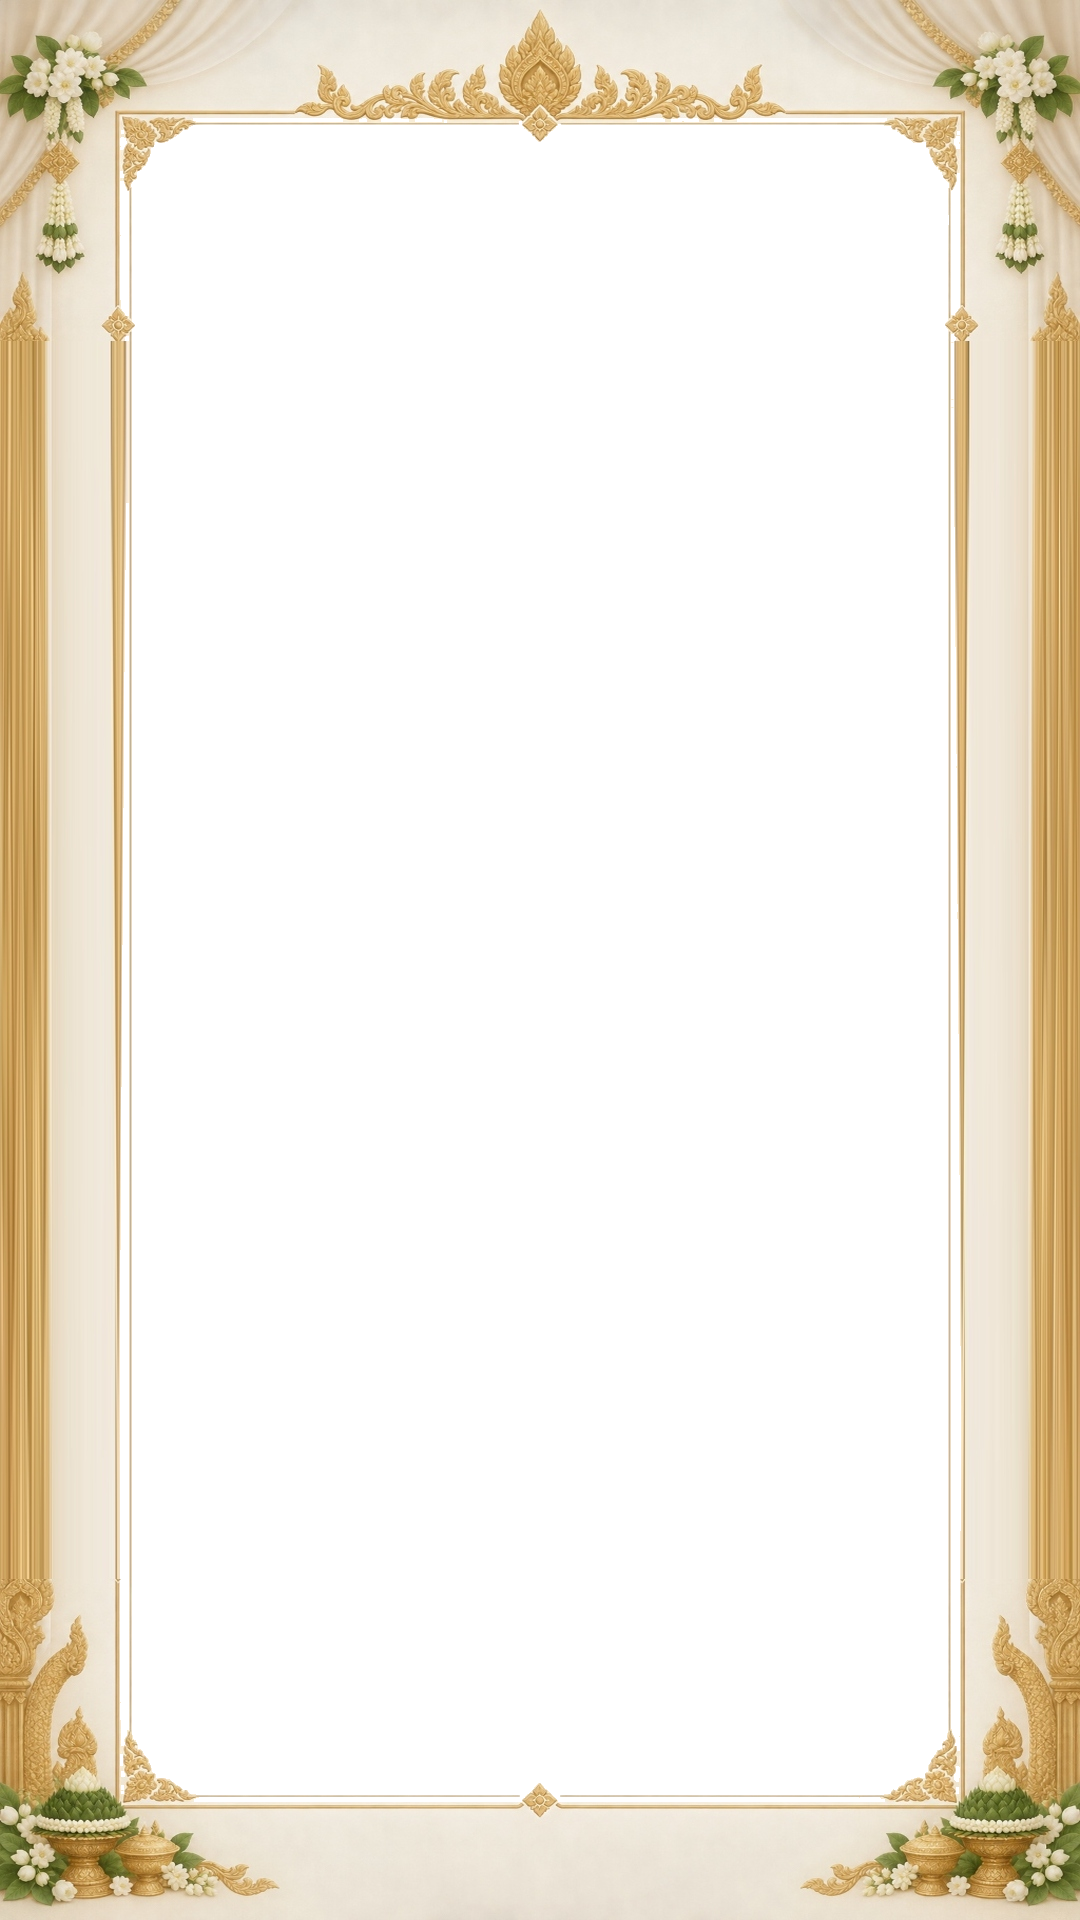
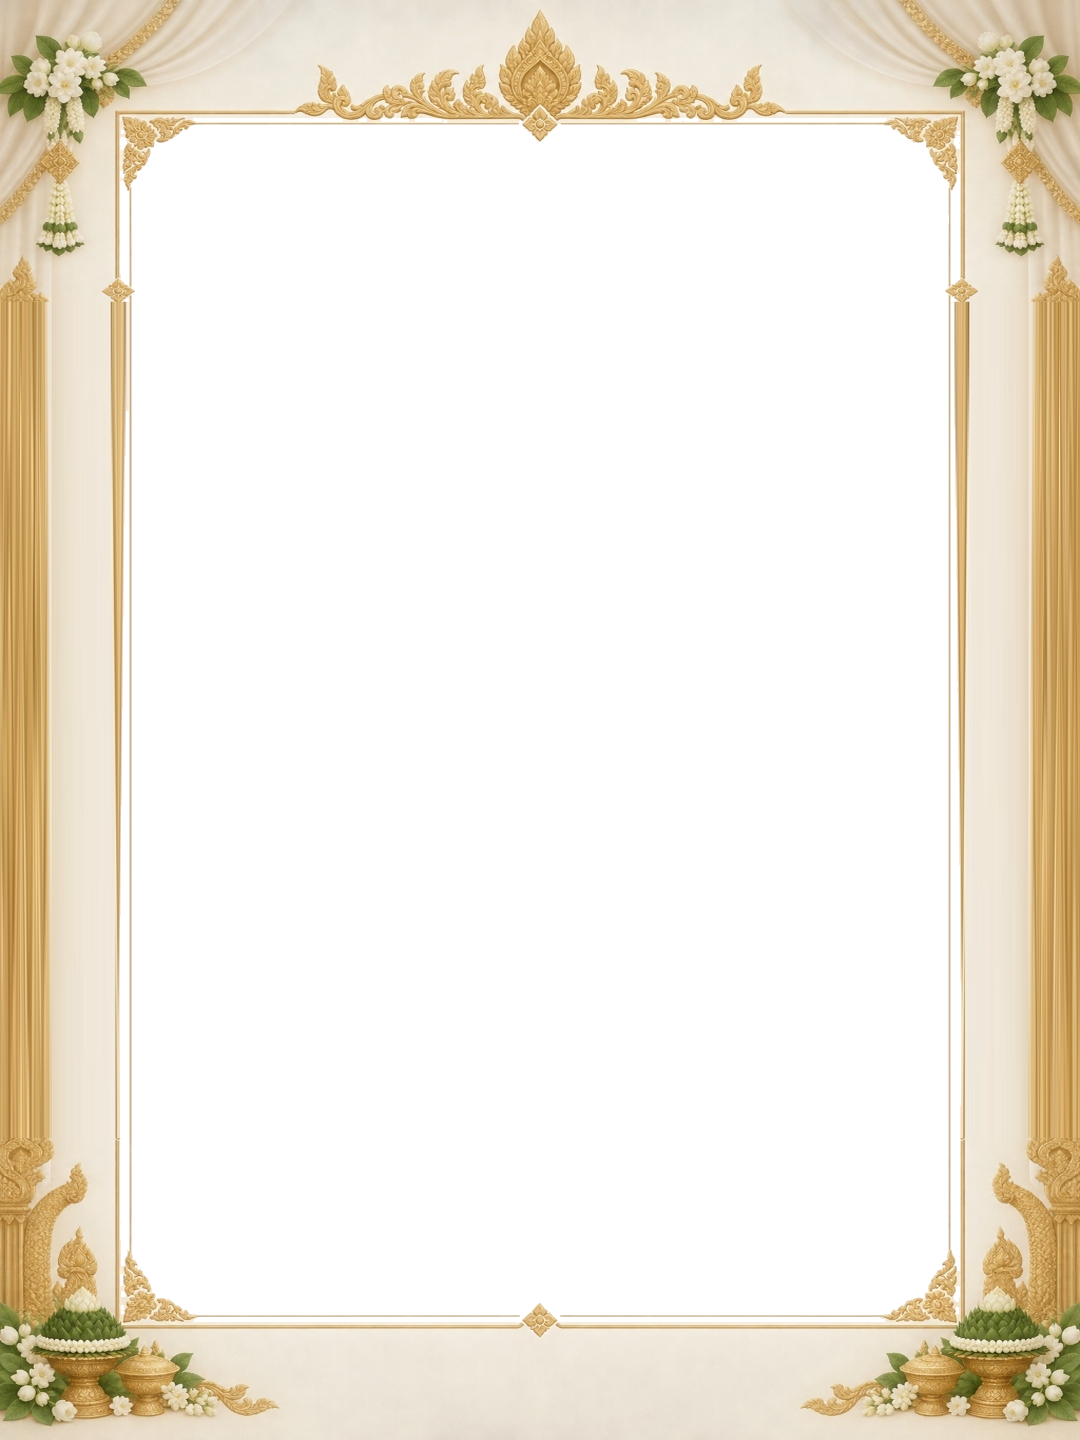
change

Changed region(s): [[0.0, 0.0, 1.0, 0.2188], [0.0, 0.7812, 1.0, 1.0], [0.0917, 0.25, 0.1222, 0.2812]]

diff --git a/style.css b/style.css
@@ -815,18 +815,18 @@ a {
   transform: scale(1.04);
 }
 
-/* Framed Couple Presentation Stage (Portrait Orientation) */
+/* Framed Couple Presentation Stage (Portrait Orientation - 3:4) */
 .framed-couple-stage {
-  max-width: min(460px, 92vw);
+  max-width: min(500px, 92vw);
   margin: 0 auto;
   position: relative;
 }
 
-/* Authentic Khmer Royal Graphic Frame Container - Portrait (9:16) */
+/* Authentic Khmer Royal Graphic Frame Container - Portrait (3:4) */
 .khmer-royal-graphic-frame {
   position: relative;
   width: 100%;
-  aspect-ratio: 1080 / 1920;
+  aspect-ratio: 1080 / 1440;
   border-radius: 12px;
   overflow: hidden;
   box-shadow: 
@@ -850,9 +850,9 @@ a {
 .graphic-frame-inner-viewport {
   position: absolute;
   left: 11.02%;
-  top: 6.15%;
+  top: 8.19%;
   width: 77.96%;
-  height: 87.71%;
+  height: 83.61%;
   z-index: 2;
   overflow: hidden;
   background-color: #170409;
@@ -870,7 +870,7 @@ a {
   width: 100%;
   height: 100%;
   object-fit: cover;
-  object-position: center 20%;
+  object-position: center 22%;
   display: block;
   transition: transform 0.6s cubic-bezier(0.16, 1, 0.3, 1);
 }
